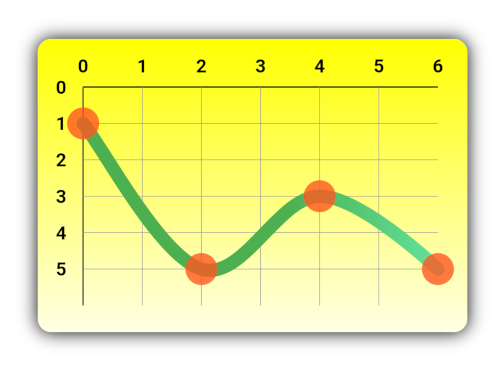
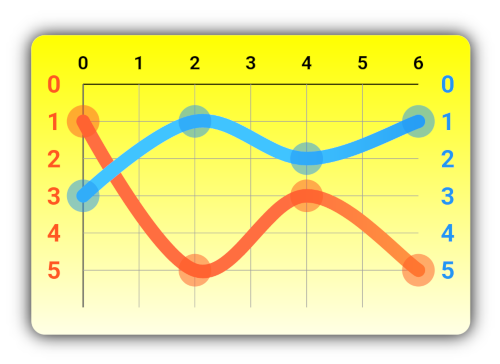
updated line_chart_sample_6 to represent two line related to two side titles

Changed region(s): [[0.03, 0.0604, 0.96, 0.967], [0.15, 0.8159, 0.18, 0.8462]]

diff --git a/example/lib/line_chart/samples/line_chart_sample6.dart b/example/lib/line_chart/samples/line_chart_sample6.dart
@@ -5,9 +5,16 @@ class LineChartSample6 extends StatelessWidget {
 
   final spots = [
     const FlSpot(0, 1),
-    const FlSpot(2, 3),
-    const FlSpot(4, 1),
+    const FlSpot(2, 5),
+    const FlSpot(4, 3),
     const FlSpot(6, 5),
+  ];
+
+  final spots2 = [
+    const FlSpot(0, 3),
+    const FlSpot(2, 1),
+    const FlSpot(4, 2),
+    const FlSpot(6, 1),
   ];
 
   double minSpotX, maxSpotX;
@@ -71,10 +78,10 @@ class LineChartSample6 extends StatelessWidget {
                   lineBarsData: [
                     LineChartBarData(
                       colors: [
-                        Colors.green,
-                        Colors.greenAccent,
+                        Colors.deepOrangeAccent,
+                        Colors.orangeAccent,
                       ],
-                      spots: reverseSpots(spots, minSpotX, maxSpotX),
+                      spots: reverseSpots(spots, minSpotY, maxSpotY),
                       isCurved: true,
                       isStrokeCapRound: true,
                       barWidth: 10,
@@ -83,7 +90,25 @@ class LineChartSample6 extends StatelessWidget {
                       ),
                       dotData: FlDotData(
                         show: true,
-                        dotColor: Colors.deepOrange.withOpacity(0.8),
+                        dotColor: Colors.deepOrange.withOpacity(0.5),
+                        dotSize: 12,
+                      ),
+                    ),
+                    LineChartBarData(
+                      colors: [
+                        Colors.lightBlueAccent,
+                        Colors.blue,
+                      ],
+                      spots: reverseSpots(spots2, minSpotY, maxSpotY),
+                      isCurved: true,
+                      isStrokeCapRound: true,
+                      barWidth: 10,
+                      belowBarData: const BelowBarData(
+                        show: false,
+                      ),
+                      dotData: FlDotData(
+                        show: true,
+                        dotColor: Colors.blue.withOpacity(0.5),
                         dotSize: 12,
                       ),
                     ),
@@ -102,8 +127,23 @@ class LineChartSample6 extends StatelessWidget {
 
                         return intValue.toString();
                       },
-                      textStyle: const TextStyle(color: Colors.black, fontWeight: FontWeight.bold),
-                      margin: 12,
+                      textStyle: const TextStyle(color: Colors.deepOrange, fontWeight: FontWeight.bold, fontSize: 18),
+                      margin: 16,
+                    ),
+                    rightTitles: SideTitles(
+                      showTitles: true,
+                      reservedSize: 0,
+                      getTitles: (double value) {
+                        final intValue = reverseY(value, minSpotY, maxSpotY).toInt();
+
+                        if (intValue == (maxSpotY + minSpotY)) {
+                          return '';
+                        }
+
+                        return intValue.toString();
+                      },
+                      textStyle: const TextStyle(color: Colors.blue, fontWeight: FontWeight.bold, fontSize: 18),
+                      margin: 16,
                     ),
                     bottomTitles: const SideTitles(showTitles: false),
                     topTitles: SideTitles(
@@ -150,9 +190,9 @@ class LineChartSample6 extends StatelessWidget {
     return (maxX + minX) - y;
   }
 
-  List<FlSpot> reverseSpots(List<FlSpot> inputSpots, double minX, double maxX) {
+  List<FlSpot> reverseSpots(List<FlSpot> inputSpots, double minY, double maxY) {
     return inputSpots.map((spot) {
-      return spot.copyWith(x: (maxX + minX) - spot.x);
+      return spot.copyWith(y: (maxY + minY) - spot.y);
     }).toList();
   }
 }
